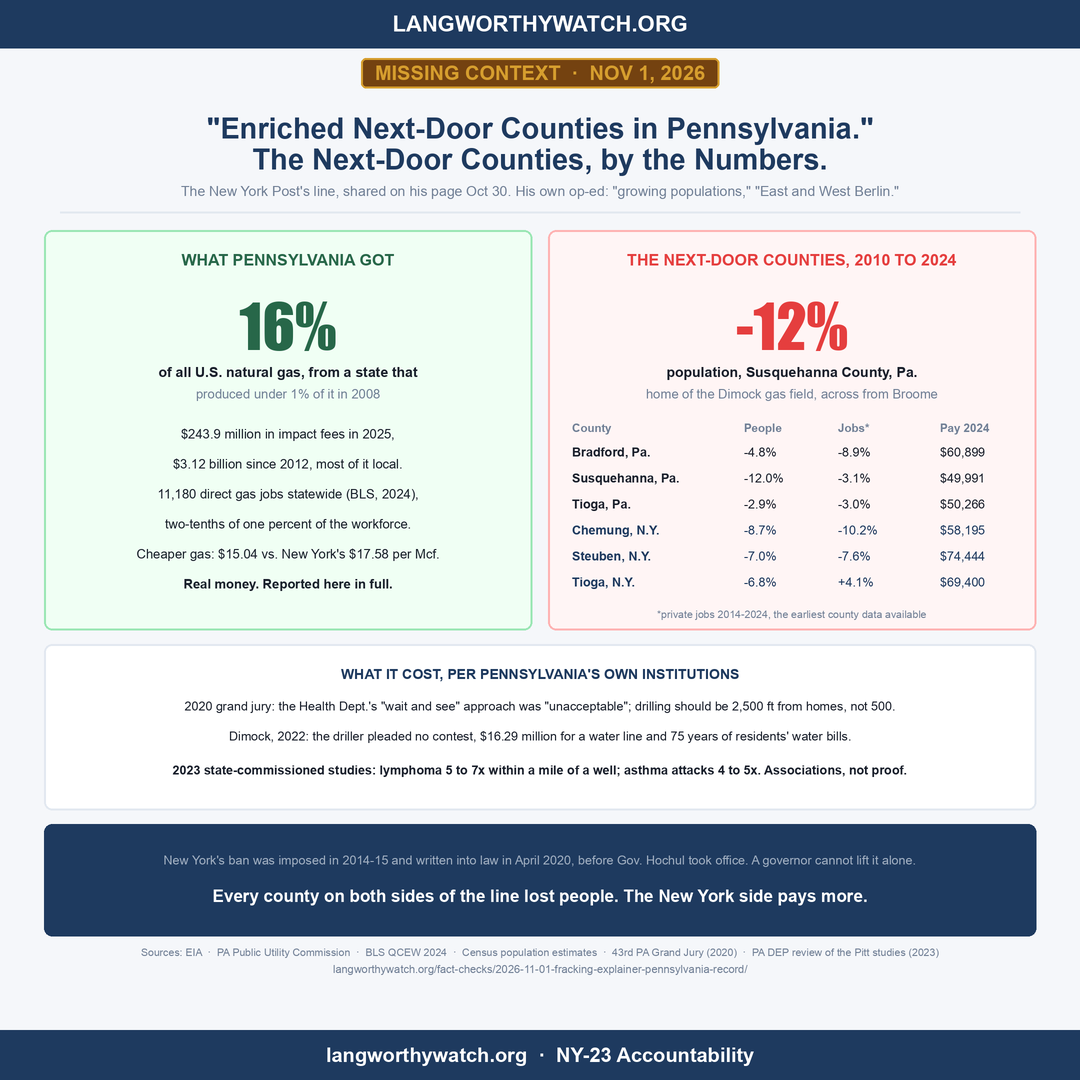
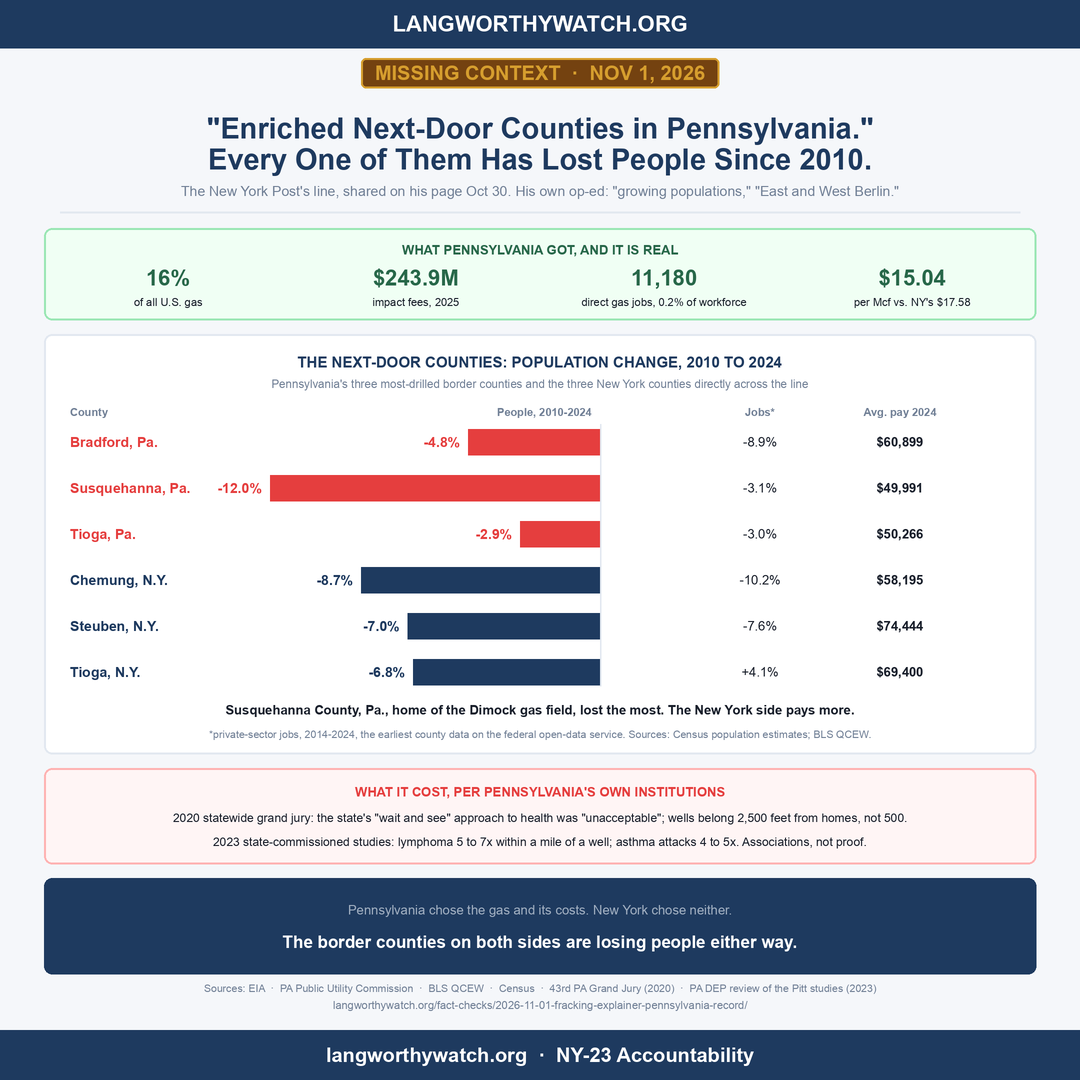
Rebuild fracking explainer card and caption (v2): bar-chart frame, no party framing

diff --git a/social-media/create_fracking_explainer_card.py b/social-media/create_fracking_explainer_card.py
@@ -1,7 +1,7 @@
 #!/usr/bin/env python3
-"""Fracking explainer, entry 2026-11-01-fracking-explainer-pennsylvania-record (MISSING CONTEXT).
-Figures: EIA (production), PA PUC (impact fee), BLS QCEW 2024 (jobs/pay), Census PEP (population 2010-2024),
-PA grand jury 2020, Coterra plea 2022, Pitt/DEP 2023. All retained under research/sources/fracking-explainer-2026-11-01/."""
+"""Fracking explainer, entry 2026-11-01-fracking-explainer-pennsylvania-record (MISSING CONTEXT). v2: bar-chart frame, no party framing.
+Figures: EIA (production), PA PUC (impact fee), BLS QCEW 2014/2024 (jobs/pay), Census PEP (population 2010-2024),
+PA grand jury 2020, Pitt/DEP 2023. All retained under research/sources/fracking-explainer-2026-11-01/."""
 import sys, os
 sys.path.insert(0, os.path.dirname(os.path.abspath(__file__)))
 from lib.card import (Card, NAVY, DARK, RED, GREEN, MUTED, BORDER, WHITE, LIGHTGRAY)
@@ -10,69 +10,70 @@ c = Card(scale=2)
 c.brand_bar()
 y = c.badge(58, "MISSING CONTEXT  ·  NOV 1, 2026")
 y = c.title(y, "\"Enriched Next-Door Counties in Pennsylvania.\"", size=29)
-y = c.title(y - 2, "The Next-Door Counties, by the Numbers.", size=29)
+y = c.title(y - 2, "Every One of Them Has Lost People Since 2010.", size=29)
 y = c.subtitle(y + 6, "The New York Post's line, shared on his page Oct 30. His own op-ed: \"growing populations,\" \"East and West Berlin.\"", size=14)
 y = c.divider(y + 12)
 
-col_w = (c.w - 44 * 2 - 16) // 2
-col_h = 400
-lx, rx = 44, 44 + col_w + 16
-top = y + 2
-
-# LEFT: what Pennsylvania got (the reasonable part)
-c.panel(lx, top, lx + col_w, top + col_h, fill="#F0FFF4", outline="#9AE6B4")
-c.text(lx + col_w / 2, top + 30, "WHAT PENNSYLVANIA GOT", size=16, bold=True, fill=GREEN, anchor="mm")
-c.text(lx + col_w / 2, top + 96, "16%", size=60, impact=True, fill=GREEN, anchor="mm")
-c.text(lx + col_w / 2, top + 142, "of all U.S. natural gas, from a state that", size=14, bold=True, fill=DARK, anchor="mm")
-c.text(lx + col_w / 2, top + 164, "produced under 1% of it in 2008", size=13, fill=MUTED, anchor="mm")
-for i, t in enumerate(["$243.9 million in impact fees in 2025,",
-                       "$3.12 billion since 2012, most of it local.",
-                       "11,180 direct gas jobs statewide (BLS, 2024),",
-                       "two-tenths of one percent of the workforce.",
-                       "Cheaper gas: $15.04 vs. New York's $17.58 per Mcf.",
-                       "Real money. Reported here in full."]):
-    c.text(lx + col_w / 2, top + 204 + i * 30, t, size=13, bold=(i == 5), fill=DARK, anchor="mm")
-
-# RIGHT: the next-door counties
-c.panel(rx, top, rx + col_w, top + col_h, fill="#FFF5F5", outline="#FEB2B2")
-c.text(rx + col_w / 2, top + 30, "THE NEXT-DOOR COUNTIES, 2010 TO 2024", size=16, bold=True, fill=RED, anchor="mm")
-c.text(rx + col_w / 2, top + 96, "-12%", size=60, impact=True, fill=RED, anchor="mm")
-c.text(rx + col_w / 2, top + 142, "population, Susquehanna County, Pa.", size=14, bold=True, fill=DARK, anchor="mm")
-c.text(rx + col_w / 2, top + 164, "home of the Dimock gas field, across from Broome", size=13, fill=MUTED, anchor="mm")
-# mini table
-cx = [rx + 24, rx + 196, rx + 290, rx + 392]
-hy = top + 198
-for x, h in zip(cx, ["County", "People", "Jobs*", "Pay 2024"]):
-    c.text(x, hy, h, size=11.5, bold=True, fill=MUTED, anchor="lm")
-rows = [("Bradford, Pa.", "-4.8%", "-8.9%", "$60,899"),
-        ("Susquehanna, Pa.", "-12.0%", "-3.1%", "$49,991"),
-        ("Tioga, Pa.", "-2.9%", "-3.0%", "$50,266"),
-        ("Chemung, N.Y.", "-8.7%", "-10.2%", "$58,195"),
-        ("Steuben, N.Y.", "-7.0%", "-7.6%", "$74,444"),
-        ("Tioga, N.Y.", "-6.8%", "+4.1%", "$69,400")]
-for i, r in enumerate(rows):
-    ry = hy + 24 + i * 26
-    col = NAVY if "N.Y." in r[0] else DARK
-    for x, v in zip(cx, r):
-        c.text(x, ry, v, size=12.5, bold=(x == cx[0]), fill=col, anchor="lm")
-c.text(rx + col_w / 2, top + 384, "*private jobs 2014-2024, the earliest county data available", size=10.5, fill=MUTED, anchor="mm")
-y = top + col_h + 14
-
-strip_h = 166
-c.panel(44, y, c.w - 44, y + strip_h, fill=WHITE, outline=BORDER)
-c.text(c.w / 2, y + 30, "WHAT IT COST, PER PENNSYLVANIA'S OWN INSTITUTIONS", size=14, bold=True, fill=NAVY, anchor="mm")
-c.text(c.w / 2, y + 62, "2020 grand jury: the Health Dept.'s \"wait and see\" approach was \"unacceptable\"; drilling should be 2,500 ft from homes, not 500.", size=12.5, fill=DARK, anchor="mm")
-c.text(c.w / 2, y + 92, "Dimock, 2022: the driller pleaded no contest, $16.29 million for a water line and 75 years of residents' water bills.", size=12.5, fill=DARK, anchor="mm")
-c.text(c.w / 2, y + 126, "2023 state-commissioned studies: lymphoma 5 to 7x within a mile of a well; asthma attacks 4 to 5x. Associations, not proof.", size=12.5, bold=True, fill=DARK, anchor="mm")
+# Slim strip: what Pennsylvania got
+strip_h = 92
+c.panel(44, y, c.w - 44, y + strip_h, fill="#F0FFF4", outline="#9AE6B4")
+c.text(c.w / 2, y + 22, "WHAT PENNSYLVANIA GOT, AND IT IS REAL", size=13, bold=True, fill=GREEN, anchor="mm")
+stats = [("16%", "of all U.S. gas"), ("$243.9M", "impact fees, 2025"), ("11,180", "direct gas jobs, 0.2% of workforce"), ("$15.04", "per Mcf vs. NY's $17.58")]
+sw = (c.w - 88) / 4
+for i, (big, small) in enumerate(stats):
+    cx = 44 + sw * i + sw / 2
+    c.text(cx, y + 50, big, size=22, bold=True, fill=GREEN, anchor="mm")
+    c.text(cx, y + 74, small, size=11, fill=DARK, anchor="mm")
 y += strip_h + 14
 
-kick_h = 112
+# Hero: bar chart of population change + jobs + pay
+hero_h = 420
+c.panel(44, y, c.w - 44, y + hero_h, fill=WHITE, outline=BORDER)
+c.text(c.w / 2, y + 28, "THE NEXT-DOOR COUNTIES: POPULATION CHANGE, 2010 TO 2024", size=15, bold=True, fill=NAVY, anchor="mm")
+c.text(c.w / 2, y + 50, "Pennsylvania's three most-drilled border counties and the three New York counties directly across the line", size=11.5, fill=MUTED, anchor="mm")
+rows = [("Bradford, Pa.", -4.8, "-8.9%", "$60,899", RED),
+        ("Susquehanna, Pa.", -12.0, "-3.1%", "$49,991", RED),
+        ("Tioga, Pa.", -2.9, "-3.0%", "$50,266", RED),
+        ("Chemung, N.Y.", -8.7, "-10.2%", "$58,195", NAVY),
+        ("Steuben, N.Y.", -7.0, "-7.6%", "$74,444", NAVY),
+        ("Tioga, N.Y.", -6.8, "+4.1%", "$69,400", NAVY)]
+base_x = 600          # zero line
+label_x = 70
+scale = 330 / 12.0    # px per percentage point
+jobs_x, pay_x = 760, 900
+hy = y + 78
+c.text(label_x, hy, "County", size=11, bold=True, fill=MUTED, anchor="lm")
+c.text(base_x - 8, hy, "People, 2010-2024", size=11, bold=True, fill=MUTED, anchor="rm")
+c.text(jobs_x, hy, "Jobs*", size=11, bold=True, fill=MUTED, anchor="mm")
+c.text(pay_x, hy, "Avg. pay 2024", size=11, bold=True, fill=MUTED, anchor="mm")
+row_h = 46
+for i, (name, pop, jobs, pay, col) in enumerate(rows):
+    ry = hy + 30 + i * row_h
+    c.text(label_x, ry, name, size=14, bold=True, fill=col, anchor="lm")
+    w = abs(pop) * scale
+    c.rect(base_x - w, ry - 13, base_x, ry + 13, fill=col, outline=None)
+    c.text(base_x - w - 8, ry, f"{pop:.1f}%", size=14, bold=True, fill=col, anchor="rm")
+    c.text(jobs_x, ry, jobs, size=13, fill=DARK, anchor="mm")
+    c.text(pay_x, ry, pay, size=13, bold=True, fill=DARK, anchor="mm")
+c.rect(base_x, hy + 12, base_x + 1, hy + 30 + 5 * row_h + 14, fill=BORDER, outline=None)
+c.text(c.w / 2, y + hero_h - 44, "Susquehanna County, Pa., home of the Dimock gas field, lost the most. The New York side pays more.", size=13, bold=True, fill=DARK, anchor="mm")
+c.text(c.w / 2, y + hero_h - 20, "*private-sector jobs, 2014-2024, the earliest county data on the federal open-data service. Sources: Census population estimates; BLS QCEW.", size=10.5, fill=MUTED, anchor="mm")
+y += hero_h + 14
+
+# Cost strip
+cost_h = 96
+c.panel(44, y, c.w - 44, y + cost_h, fill="#FFF5F5", outline="#FEB2B2")
+c.text(c.w / 2, y + 24, "WHAT IT COST, PER PENNSYLVANIA'S OWN INSTITUTIONS", size=13, bold=True, fill=RED, anchor="mm")
+c.text(c.w / 2, y + 50, "2020 statewide grand jury: the state's \"wait and see\" approach to health was \"unacceptable\"; wells belong 2,500 feet from homes, not 500.", size=12, fill=DARK, anchor="mm")
+c.text(c.w / 2, y + 74, "2023 state-commissioned studies: lymphoma 5 to 7x within a mile of a well; asthma attacks 4 to 5x. Associations, not proof.", size=12, fill=DARK, anchor="mm")
+y += cost_h + 14
+
+kick_h = 96
 c.panel(44, y, c.w - 44, y + kick_h, fill=NAVY, outline=None)
-c.text(c.w / 2, y + 36, "New York's ban was imposed in 2014-15 and written into law in April 2020, before Gov. Hochul took office. A governor cannot lift it alone.",
-       size=12.5, fill=LIGHTGRAY, anchor="mm")
-c.text(c.w / 2, y + 72, "Every county on both sides of the line lost people. The New York side pays more.", size=17, bold=True, fill=WHITE, anchor="mm")
-y += kick_h + 16
-c.text(c.w / 2, y, "Sources: EIA  ·  PA Public Utility Commission  ·  BLS QCEW 2024  ·  Census population estimates  ·  43rd PA Grand Jury (2020)  ·  PA DEP review of the Pitt studies (2023)", size=10.5, fill=MUTED, anchor="mm")
+c.text(c.w / 2, y + 32, "Pennsylvania chose the gas and its costs. New York chose neither.", size=13, fill=LIGHTGRAY, anchor="mm")
+c.text(c.w / 2, y + 64, "The border counties on both sides are losing people either way.", size=17, bold=True, fill=WHITE, anchor="mm")
+y += kick_h + 14
+c.text(c.w / 2, y, "Sources: EIA  ·  PA Public Utility Commission  ·  BLS QCEW  ·  Census  ·  43rd PA Grand Jury (2020)  ·  PA DEP review of the Pitt studies (2023)", size=10.5, fill=MUTED, anchor="mm")
 c.text(c.w / 2, y + 17, "langworthywatch.org/fact-checks/2026-11-01-fracking-explainer-pennsylvania-record/", size=11, fill=MUTED, anchor="mm")
 c.footer_bar()
 c.save(os.path.join(os.path.dirname(os.path.abspath(__file__)), "fracking_explainer_card.png"), to_desktop=True)

diff --git a/social-media/fracking_explainer_post.md b/social-media/fracking_explainer_post.md
@@ -1,19 +1,18 @@
-# DRAFT Nov 1, 2026 (fracking explainer; entry 2026-11-01-fracking-explainer-pennsylvania-record, MISSING CONTEXT)
+# DRAFT Nov 1, 2026 v2 (fracking explainer; entry 2026-11-01-fracking-explainer-pennsylvania-record, MISSING CONTEXT; no party framing)
 # Card: fracking_explainer_card.png (create_fracking_explainer_card.py)
 
-The New York Post says fracking "enriched next-door counties in Pennsylvania." He shared it. His own op-ed says drilling gave Pennsylvania "growing populations" and made the border "East and West Berlin." We pulled the numbers for the next-door counties.
+The New York Post says fracking "enriched next-door counties in Pennsylvania." He shared it. Every one of those counties has lost people since 2010. The one with the most gas, Susquehanna, lost the most: 12 percent.
 
 VERDICT: MISSING CONTEXT
 
-→ Every county on both sides of the line lost people from 2010 to 2024. Bradford, Pa., down 4.8 percent. Susquehanna, Pa., home of the Dimock gas field, down 12 percent. Tioga, Pa., down 2.9. Across the border: Chemung down 8.7, Steuben down 7.0, Tioga, N.Y., down 6.8.
-→ Private jobs fell 3 to 9 percent in the three Pennsylvania counties from 2014 to 2024. Tioga County, N.Y., was the only county in the comparison that added jobs.
-→ Average pay in 2024: Bradford $60,899, Susquehanna $49,991, Tioga, Pa. $50,266. Chemung $58,195, Steuben $74,444, Tioga, N.Y. $69,400. The New York side pays more.
-→ What Pennsylvania did get: 16 percent of the nation's gas, $243.9 million in impact fees last year, 11,180 direct drilling jobs statewide (0.2 percent of its workforce), and gas at $15.04 per thousand cubic feet against New York's $17.58. All real.
-→ What it cost, per Pennsylvania's own institutions: a 2020 grand jury that called the state's "wait and see" approach to health "unacceptable." A $16.29 million no-contest plea over Dimock's water. 2023 state-commissioned studies finding lymphoma 5 to 7 times as likely within a mile of a well. Associations, not proof, and the entry says so.
-→ The ban is not Hochul's. It was imposed in 2014 and 2015 and written into law in April 2020. A governor cannot lift it alone, which is what she told Politico in the clip his page captioned "passing the buck."
+→ Population, 2010 to 2024: Bradford, Pa., down 4.8 percent. Susquehanna, Pa., down 12.0. Tioga, Pa., down 2.9. Directly across the line: Chemung down 8.7, Steuben down 7.0, Tioga, N.Y., down 6.8. His op-ed said drilling brought "growing populations."
+→ Private jobs, 2014 to 2024: down 3 to 9 percent in the three Pennsylvania counties. Tioga County, N.Y., was the only one of the six that added jobs.
+→ Average pay, 2024: Bradford $60,899 against Chemung $58,195. Susquehanna $49,991 against Tioga, N.Y., $69,400. Tioga, Pa., $50,266 against Steuben $74,444. His op-ed called the border "East and West Berlin."
+→ What Pennsylvania did get, and it is real: 16 percent of the nation's gas, $243.9 million in impact fees last year, 11,180 direct drilling jobs statewide (0.2 percent of its workforce), and gas at $15.04 per thousand cubic feet against New York's $17.58.
+→ What it cost, per Pennsylvania's own institutions: a 2020 statewide grand jury that called the state's "wait and see" approach to health "unacceptable" and said wells belong 2,500 feet from homes, not 500. A $16.29 million no-contest plea over Dimock's water. 2023 state-commissioned studies finding lymphoma 5 to 7 times as likely within a mile of a well. Associations, not proof, and the entry says so.
 
-What is fair to him: the gas is real and cheap, the fees pay for local roads, and families who leased were paid. None of it shows up as growth in the counties he points to.
+What is fair: the gas is real and cheap, the fees pay for local roads, and families who leased were paid. New York would have gained something too. None of it shows up as growth in the counties he points to.
 
-The honest comparison: Pennsylvania chose the gas and its costs, New York chose neither, and the border counties on both sides are losing people either way.
+Pennsylvania chose the gas and its costs. New York chose neither. The border counties on both sides are losing people either way. The entry has every number, both ways, with the source for each.
 
 https://langworthywatch.org/fact-checks/2026-11-01-fracking-explainer-pennsylvania-record/
